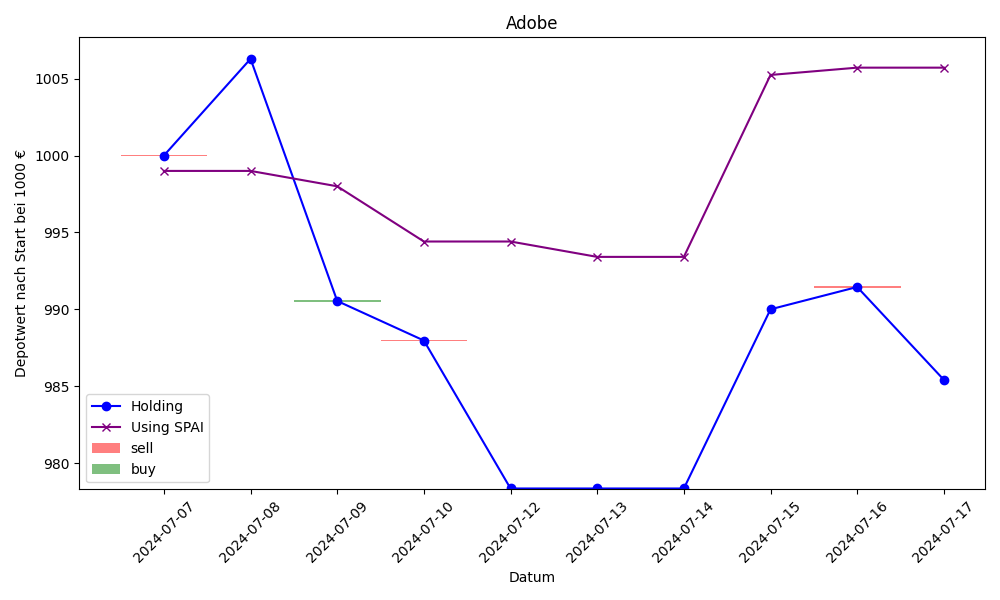
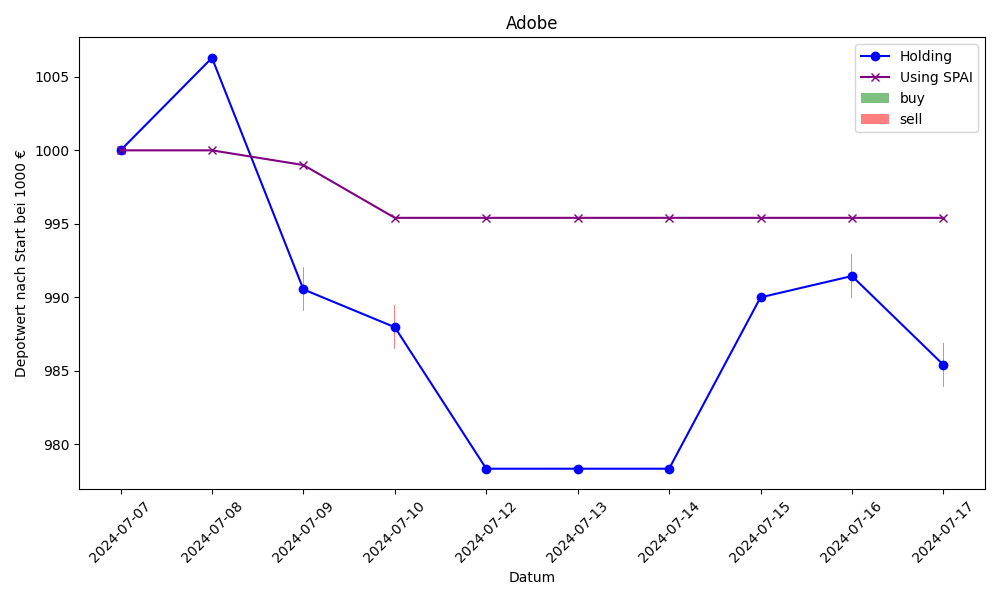
adjust plot and recalc values to be right

diff --git a/my_lib.py b/my_lib.py
@@ -4,11 +4,17 @@ from transformers import BertTokenizer, BertForSequenceClassification, pipeline
 import pandas as pd
 import matplotlib.pyplot as plt
 
-def plot_depot(depot, name,path):
+import matplotlib.pyplot as plt
+
+def plot_depot(depot, name, path):
     plt.cla()
     plt.clf()
     plt.close()
     plt.figure(figsize=(10, 6))
+
+    # Convert dates to strings if they are not already
+    if not isinstance(depot['date'].iloc[0], str):
+        depot['date'] = depot['date'].astype(str)
 
     plt.plot(depot['date'], depot["holding"], label='Holding', marker='o', color='blue')
     plt.plot(depot['date'], depot["depot_value"], label='Using SPAI', marker='x', color='purple')
@@ -19,16 +25,17 @@ def plot_depot(depot, name,path):
     for index, row in depot.iterrows():
         if row['flag'] == 'Buy':
             if not buy_label_added:
-                plt.bar(row['date'], height=3, bottom=row["holding"] - 1.5, color='green', width=0.01, alpha=0.5, label ="buy")
+                plt.bar(row['date'], height=3, bottom=row["holding"] - 1.5, color='green', width=0.1, alpha=0.5, label="buy")
                 buy_label_added = True
             else:
-                plt.bar(row['date'], height=3, bottom=row["holding"] - 1.5, color='green', width=0.01, alpha=0.5)
+                plt.bar(row['date'], height=3, bottom=row["holding"] - 1.5, color='green', width=0.1, alpha=0.5)
         elif row['flag'] == 'Sell':
             if not sell_label_added:
-                plt.bar(row['date'], height=3, bottom=row["holding"] - 1.5, color='red', width=0.01, alpha=0.5, label = "sell")
+                plt.bar(row['date'], height=3, bottom=row["holding"] - 1.5, color='red', width=0.1, alpha=0.5, label="sell")
                 sell_label_added = True
             else:
-                plt.bar(row['date'], height=3, bottom=row["holding"] - 1.5, color='red', width=0.01, alpha=0.5)
+                plt.bar(row['date'], height=3, bottom=row["holding"] - 1.5, color='red', width=0.1, alpha=0.5)
+
     plt.title(name)
     plt.xlabel('Datum')
     plt.ylabel('Depotwert nach Start bei 1000 €')
@@ -37,6 +44,7 @@ def plot_depot(depot, name,path):
     plt.tight_layout()
     plt.savefig(path + 'depot.png')
     print(f"Depot plot saved to {path + 'depot.png'}")
+
 
 def buy_stock(cash,stocks,trade_cost):
     if cash > 0:

diff --git a/predict_and_trade.py b/predict_and_trade.py
@@ -79,9 +79,9 @@ for index, row in df_stocks.iterrows():
     price = data['close'].iloc[-1]
 
     #check if its weekend
-    date = datetime.strptime(date, '%Y-%m-%d')
+    date_modify = datetime.strptime(date, '%Y-%m-%d')
     #check if its saturday or sunday
-    if date.weekday() >= 5:
+    if date_modify.weekday() >= 5:
         action = 'Hold' #can only hold on weekends
 
     if action == 'Buy':
@@ -107,7 +107,7 @@ for index, row in df_stocks.iterrows():
         depot = new_entry
 
 
-
+    print(depot)
     depot.to_csv(path + 'depot.csv', index=False)
 
     print(f"Updated depot for {name} on {date} with cash: {cash}, stock: {stock}, depot value: {depot_value}")
